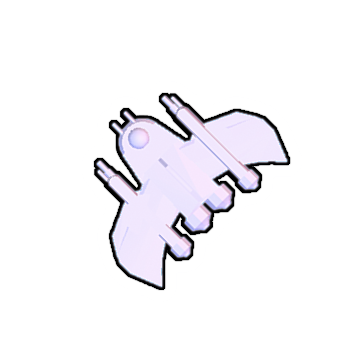
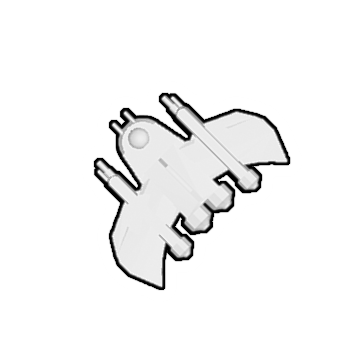
Teal and improved white

diff --git a/helpers/CombatHelper.py b/helpers/CombatHelper.py
@@ -959,9 +959,7 @@ class Combat:
         await interaction.message.delete()
         await interaction.channel.send(f"{playerObj['player_name']} has retreated all ships"
                                        f" with initiative {speed} to {destination}.")
-        dracoNAnc = all([len(Combat.findPlayersInTile(game, pos)) == 2,
-                         "anc" in Combat.findShipTypesInTile(game, pos),
-                         "Draco" in game.find_player_faction_name_from_color(Combat.findPlayersInTile(game, pos)[1])])
+        dracoNAnc = len(Combat.findPlayersInTile(game, pos)) == 2 and "anc" in Combat.findShipTypesInTile(game, pos) and "Draco" in game.find_player_faction_name_from_color(Combat.findPlayersInTile(game, pos)[1])
         if len(Combat.findPlayersInTile(game, pos)) < 2 or dracoNAnc:
             await Combat.declareAWinner(game, interaction, pos)
         elif oldLength != len(Combat.findPlayersInTile(game, pos)):

diff --git a/Buttons/Pulsar.py b/Buttons/Pulsar.py
@@ -10,9 +10,7 @@ class PulsarButtons:
         view = View()
         actions = ["build", "move", "upgrade"]
         for tile in game.gamestate["board"]:
-            if all(["currentAction" in game.gamestate["board"][tile],
-                   game.gamestate["board"][tile].get("owner") == player["color"],
-                   tile not in player.get("activatedPulsars", [])]):
+            if "currentAction" in game.gamestate["board"][tile] and game.gamestate["board"][tile].get("owner") == player["color"] and tile not in player.get("activatedPulsars", []):
                 for action in actions:
                     if action == game.gamestate["board"][tile]["currentAction"]:
                         continue

diff --git a/Buttons/Draft.py b/Buttons/Draft.py
@@ -113,15 +113,15 @@ class DraftButtons:
         if faction == "lyr":
             return "brown"
         if faction == "rho":
-            return "teal"
-        if faction == "exl":
             return "pink"
+        if faction == "exl":
+            return "teal"
         return "green"
 
     @staticmethod
     async def generalSetup(interaction: discord.Interaction, game: GamestateHelper,
                            temp_player_list, temp_faction_list):
-        colors = ["blue", "red", "green", "yellow", "purple", "white","pink","brown"]
+        colors = ["blue", "red", "green", "yellow", "purple", "white","pink","brown", "teal"]
         count = 0
         listPlayerHomes = []
         x = -1

diff --git a/Buttons/Move.py b/Buttons/Move.py
@@ -106,8 +106,7 @@ class MoveButtons:
                 return
 
             for adjTile in configs.get(pos)[0].split(","):
-                if all([adjTile in tile_map,
-                        InfluenceButtons.areTwoTilesAdjacent(game, pos, adjTile, configs, wormHoleGen)]):
+                if adjTile in tile_map and InfluenceButtons.areTwoTilesAdjacent(game, pos, adjTile, configs, wormHoleGen)]):
                     recursive_search(adjTile, distance + 1, visited, jumpDriveAvailable)
                 elif jumpDriveAvailable and "wormholes" in tile_map.get(adjTile, []):
                     recursive_search(adjTile, distance + 1, visited, False)

diff --git a/helpers/EmojiHelper.py b/helpers/EmojiHelper.py
@@ -95,6 +95,10 @@ class Emoji:
                      "<:material:1301746857051029577>",
                      "<:money:1301746858376298496>",
                      "<:yellowdrd:1301319879441256559>",
+                     "<:tealcru:1309368616893812836>",
+                     "<:tealdrd:1309368614675157033>",
+                     "<:tealint:1309368615610486784>",
+                     "<:tealsb:1309368618345037845>",
                      "<:dracotoken:1302090247735349330>",
                      "<:eridanitoken:1302090245805703220>",
                      "<:colony_ship:1302428460198924388>",

diff --git a/commands/tile_commands.py b/commands/tile_commands.py
@@ -18,6 +18,7 @@ class TileCommands(commands.GroupCog, name="tile"):
     color_choices = [app_commands.Choice(name="Blue", value="blue"),
                      app_commands.Choice(name="Red", value="red"),
                      app_commands.Choice(name="Yellow", value="yellow"),
+                     app_commands.Choice(name="Teal", value="teal"),
                      app_commands.Choice(name="Purple", value="purple"),
                      app_commands.Choice(name="Green", value="green"),
                      app_commands.Choice(name="Pink", value="pink"),

diff --git a/commands/player_commands.py b/commands/player_commands.py
@@ -27,6 +27,7 @@ class PlayerCommands(commands.GroupCog, name="player"):
         app_commands.Choice(name="Green", value="green"),
         app_commands.Choice(name="White", value="white"),
         app_commands.Choice(name="Pink", value="pink"),
+        app_commands.Choice(name="Teal", value="teal"),
         app_commands.Choice(name="Brown", value="brown")
     ]
 
